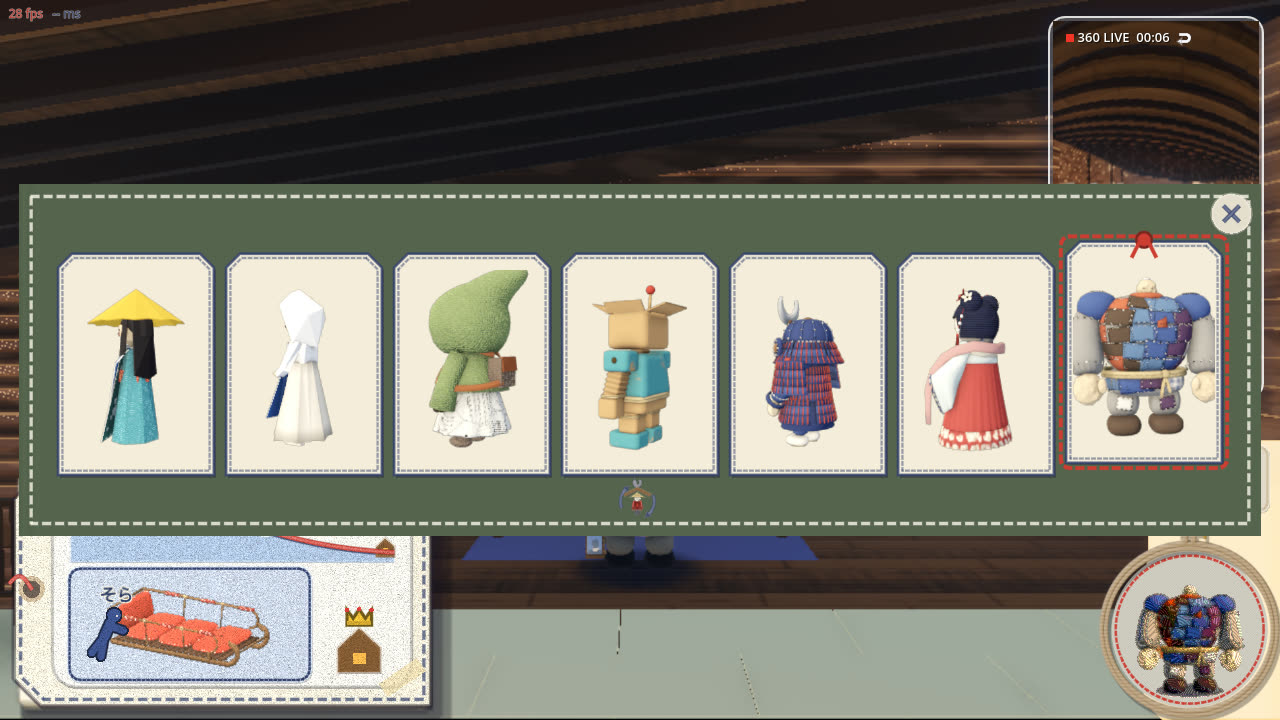
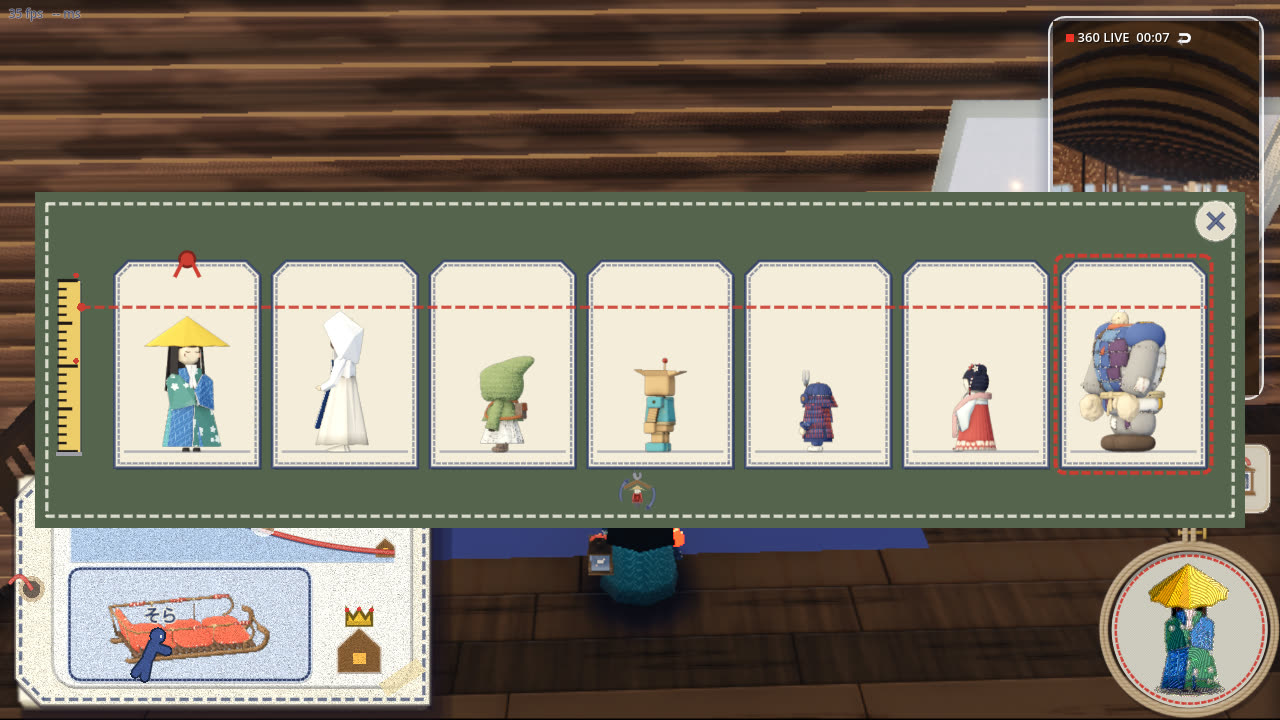
人形を選ぶ画面で身長の差がわかるようにする
代表「キャラ選択では身長の差がわかるような表示にしてほしい」。
- 札の人形を、ゲームと同じ縮尺で、遠近のない撮り方で同じ床の線に立たせる（前は札ごとに背をそろえていた）
- 板の左に巻き尺（10 cm ごとの目盛り。数字なし）と、選んでいる人形の頭の高さを全部の札に渡す赤い糸
- 選んだ札は持ち上げない（床の線がずれるので）。ほかの画面が開いているときは開かない

diff --git a/design/wardrobe/README.md b/design/wardrobe/README.md
@@ -5,7 +5,8 @@
 | 絵 | 中身 |
 |---|---|
 | [rack.jpg](rack.jpg) | 2 階の衣装掛け（内階段を上がった東の端）。F の案内はハンガーの絵。着ている ① のハンガーが空 |
-| [menu.jpg](menu.jpg) | F で開く画面。7 枚の札の中で人形が回る。赤い結び目が着ている人形、赤い糸の囲みが選んでいる札 |
+| [menu.jpg](menu.jpg) | F で開く画面。7 枚の札の中で人形が回る。人形はゲームと同じ縮尺で同じ床に立ち、左の巻き尺と、選んでいる人形（ここでは巨人）の頭の高さの赤い糸で、身長の差がわかる。赤い結び目が着ている人形 |
+| [menu-news.jpg](menu-news.jpg) | 同じ画面で、いちばん小さい組の新聞紙の人形を選んだところ。赤い糸が下がる |
 | [seven-fp.jpg](seven-fp.jpg) | 7 体に着替えた一人称（左上から ①〜⑦）。袖と手、左の袖の雪玉のストック、右下の刺繍の小窓 |
 | [seven-tp.jpg](seven-tp.jpg) | 同じく三人称 |
 | [new4-wave.jpg](new4-wave.jpg) | ④〜⑦ が骨で動く見本（手を振る） |
